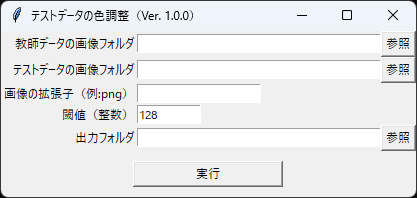
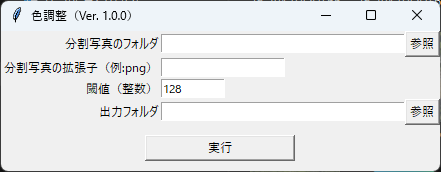
コードと画像の修正
・教師データ（グレースケール）の輝度平均と標準偏差をコードに埋め込んだ。
・教師データフォルダパスのテキストボックスを削除
・これに伴いdocの画像も変更

diff --git a/AdjustGray.py b/AdjustGray.py
@@ -60,7 +60,7 @@ def CalcMeanStd(ImgPath):
     ImgData = ReadImg(ImgPath)
     Mean, Std = cv2.meanStdDev(ImgData)
 
-    return float(Mean), float(Std), ImgData
+    return Mean.item(), Std.item(), ImgData
 
 def GetImgMeanStd(ImgDir, ImageExtension):
     """
@@ -120,7 +120,7 @@ def DrawBlackBasedThreshold(ImgData, Threshold):
 
     return Result
 
-def Adjust(TrainImgDir, TestImgDir, ImageExtension, OutputDir, Threshold):
+def Adjust(TestImgDir, ImageExtension, OutputDir, Threshold):
     """
     テスト画像の明るさ・コントラストを教師画像群の統計値に合わせて調整し、閾値処理後に出力フォルダへ保存する。
 
@@ -131,8 +131,7 @@ def Adjust(TrainImgDir, TestImgDir, ImageExtension, OutputDir, Threshold):
         OutputDir (str): 出力フォルダのパス。
         Threshold (int): 閾値（この値未満の画素は0にする）。
     """
-    TrainMean, TrainStd = GetImgMeanStd(TrainImgDir, ImageExtension)
-    print('Train Dir: Mean\t', TrainMean, '', TrainStd)
+    TrainMean, TrainStd = 92.53910632677241, 26.46361214881516
 
     TestImgPathList = glob.glob(os.path.join(TestImgDir, '*' + ImageExtension))
     for TestImgPath in TestImgPathList:
@@ -163,36 +162,30 @@ def OnRun():
     GUIの「実行」ボタン押下時の処理。入力値を取得し推論を実行する。
     """
     try:
-        TrainImgDir = EntryTrainImgDir.get()
         TestImgDir = EntryTestImgDir.get()
         ImageExtension = EntryExt.get()
         ThresholdStr = EntryThreshold.get()
         OutputDir = EntryOutputDir.get()
 
-        if not (TrainImgDir and TestImgDir and ImageExtension and ThresholdStr and OutputDir):
+        if not (TestImgDir and ImageExtension and ThresholdStr and OutputDir):
             messagebox.showerror('エラー', 'すべての項目を入力してください')
             return
 
-        Adjust(TrainImgDir, TestImgDir, ImageExtension, OutputDir, int(ThresholdStr))
+        Adjust(TestImgDir, ImageExtension, OutputDir, int(ThresholdStr))
         messagebox.showinfo('完了', '処理が完了しました')
 
     except Exception as e:
         messagebox.showerror('エラー', str(e))
 
 Root = tk.Tk()
-Root.title('テストデータの色調整（Ver. 1.0.0）')
+Root.title('色調整（Ver. 1.0.0）')
 
-tk.Label(Root, text='教師データの画像フォルダ').grid(row=0, column=0, sticky='e')
-EntryTrainImgDir = tk.Entry(Root, width=40)
-EntryTrainImgDir.grid(row=0, column=1)
-tk.Button(Root, text='参照', command=lambda: SelectDir(EntryTrainImgDir)).grid(row=0, column=2)
-
-tk.Label(Root, text='テストデータの画像フォルダ').grid(row=1, column=0, sticky='e')
+tk.Label(Root, text='分割写真のフォルダ').grid(row=1, column=0, sticky='e')
 EntryTestImgDir = tk.Entry(Root, width=40)
 EntryTestImgDir.grid(row=1, column=1)
 tk.Button(Root, text='参照', command=lambda: SelectDir(EntryTestImgDir)).grid(row=1, column=2)
 
-tk.Label(Root, text='画像の拡張子（例:png）').grid(row=2, column=0, sticky='e')
+tk.Label(Root, text='分割写真の拡張子（例:png）').grid(row=2, column=0, sticky='e')
 EntryExt = tk.Entry(Root, width=20)
 EntryExt.grid(row=2, column=1, sticky='w')
 
